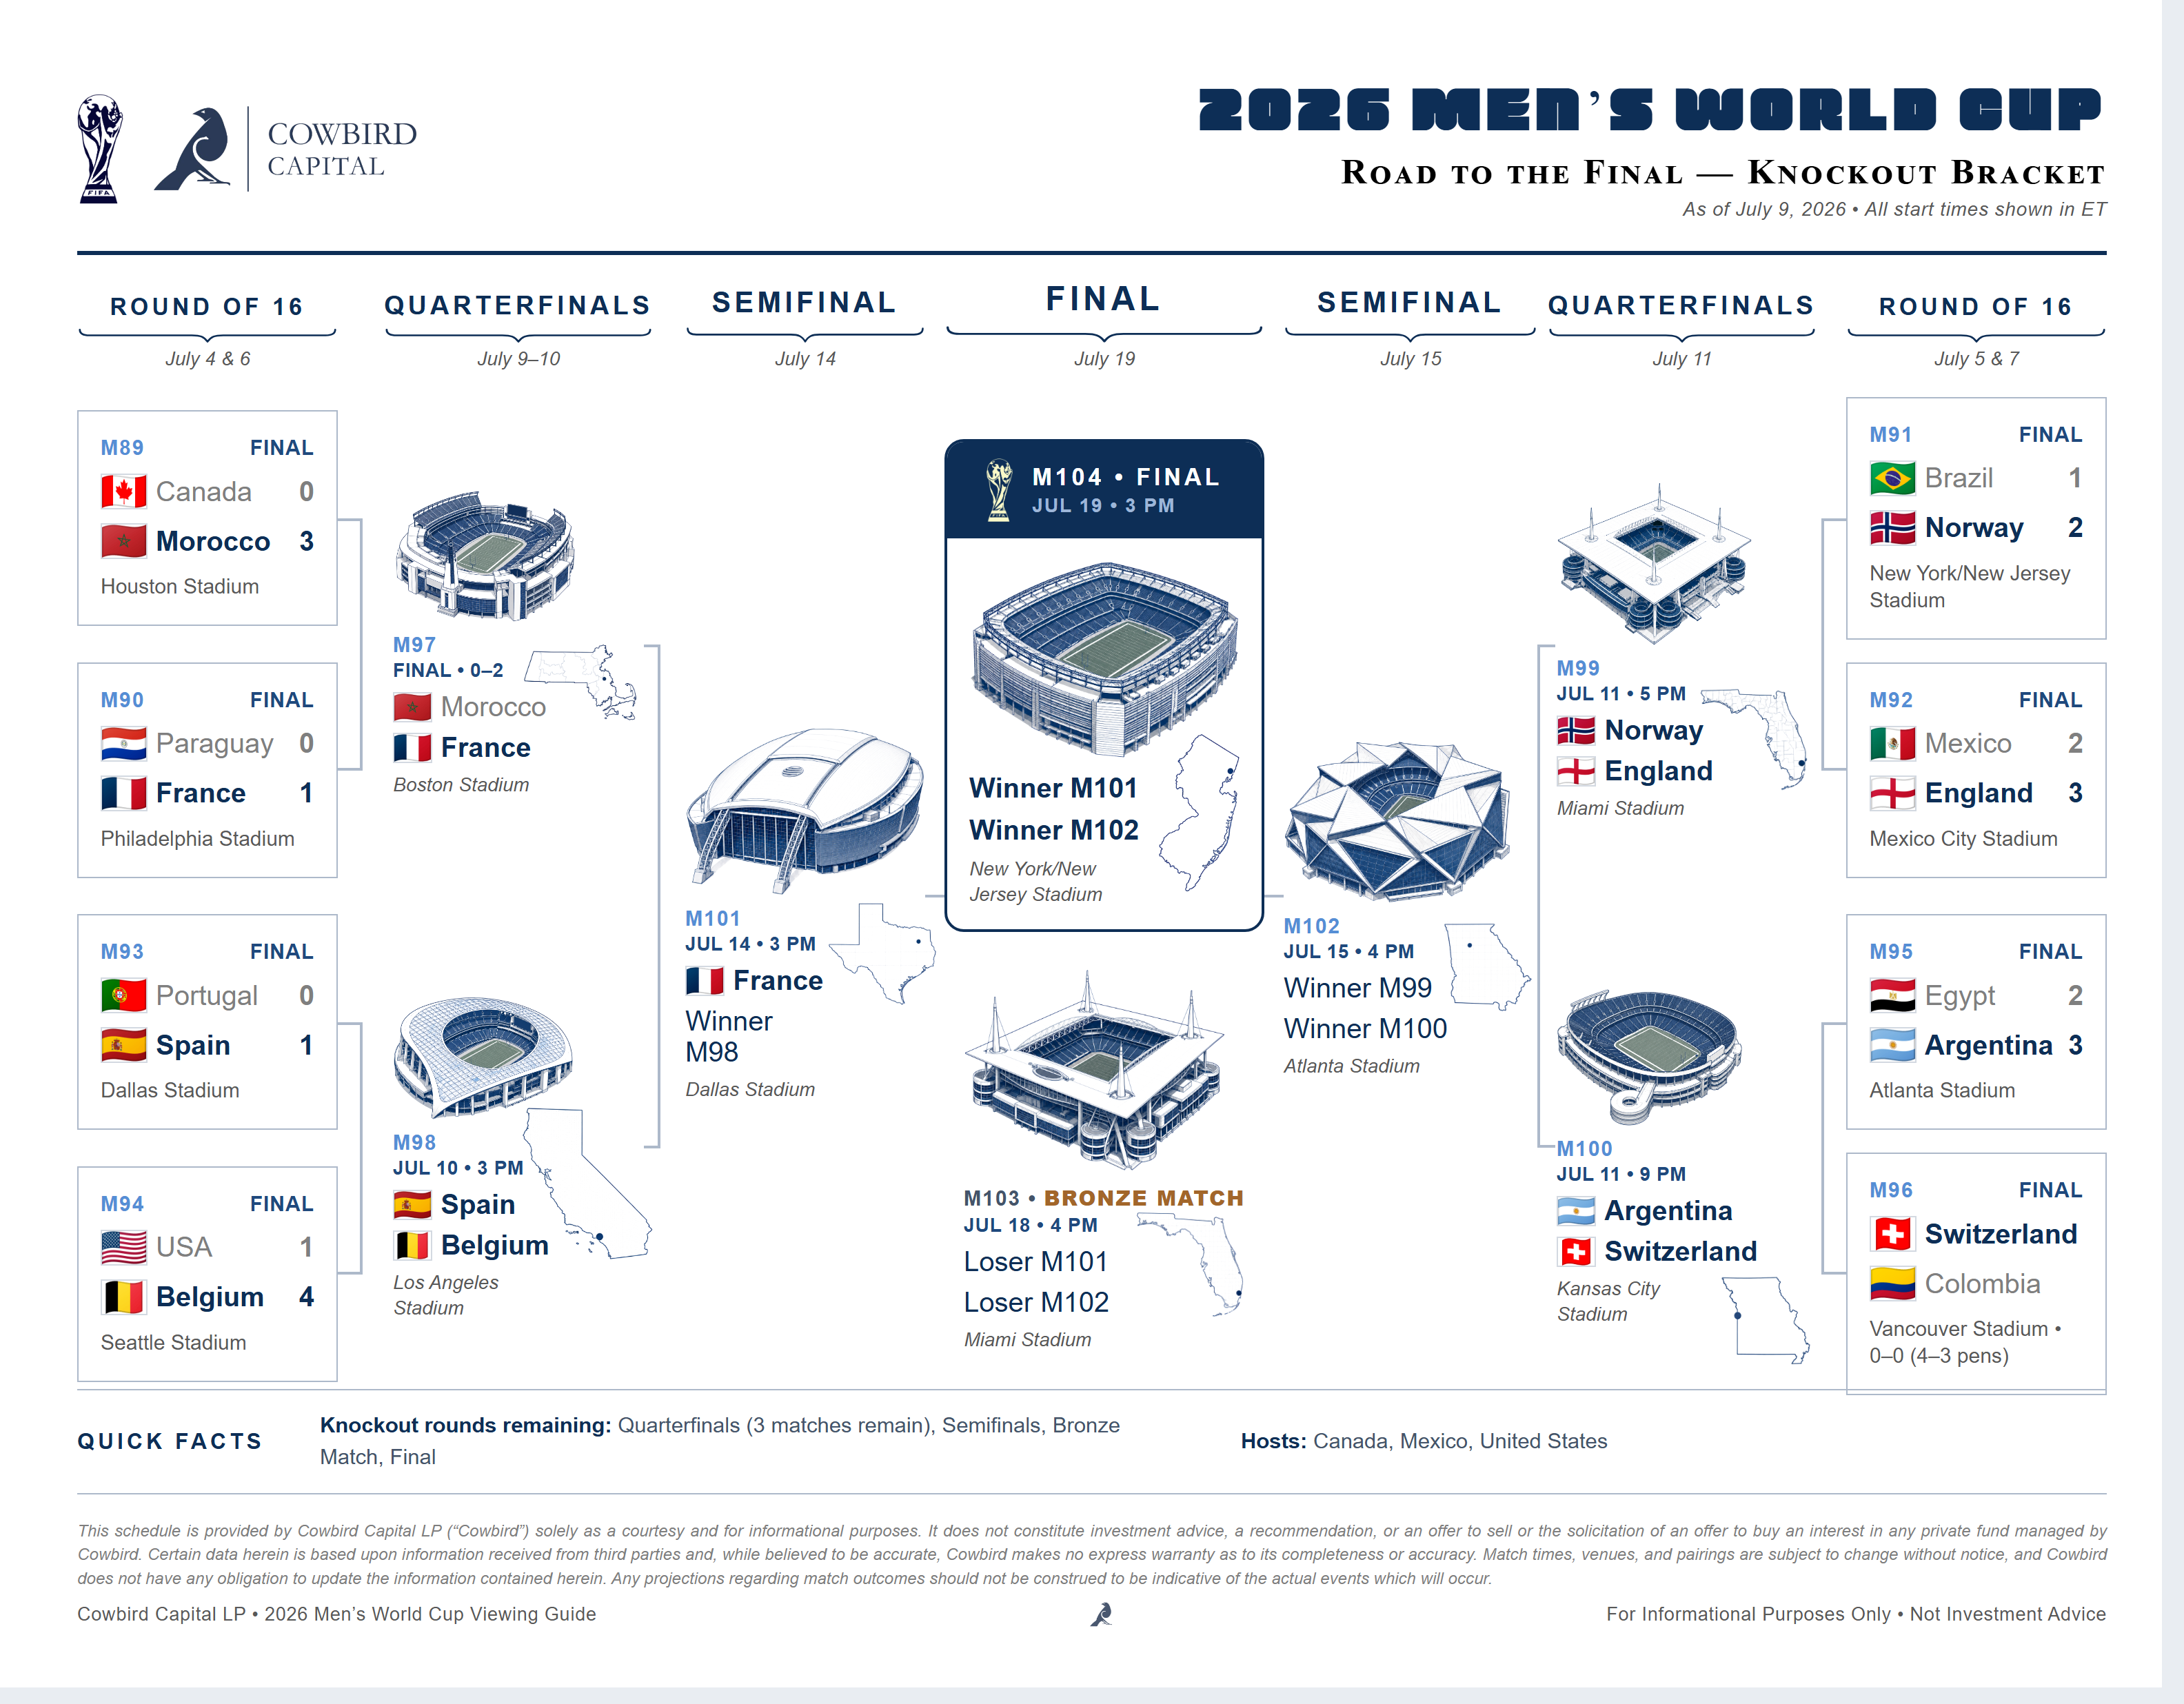
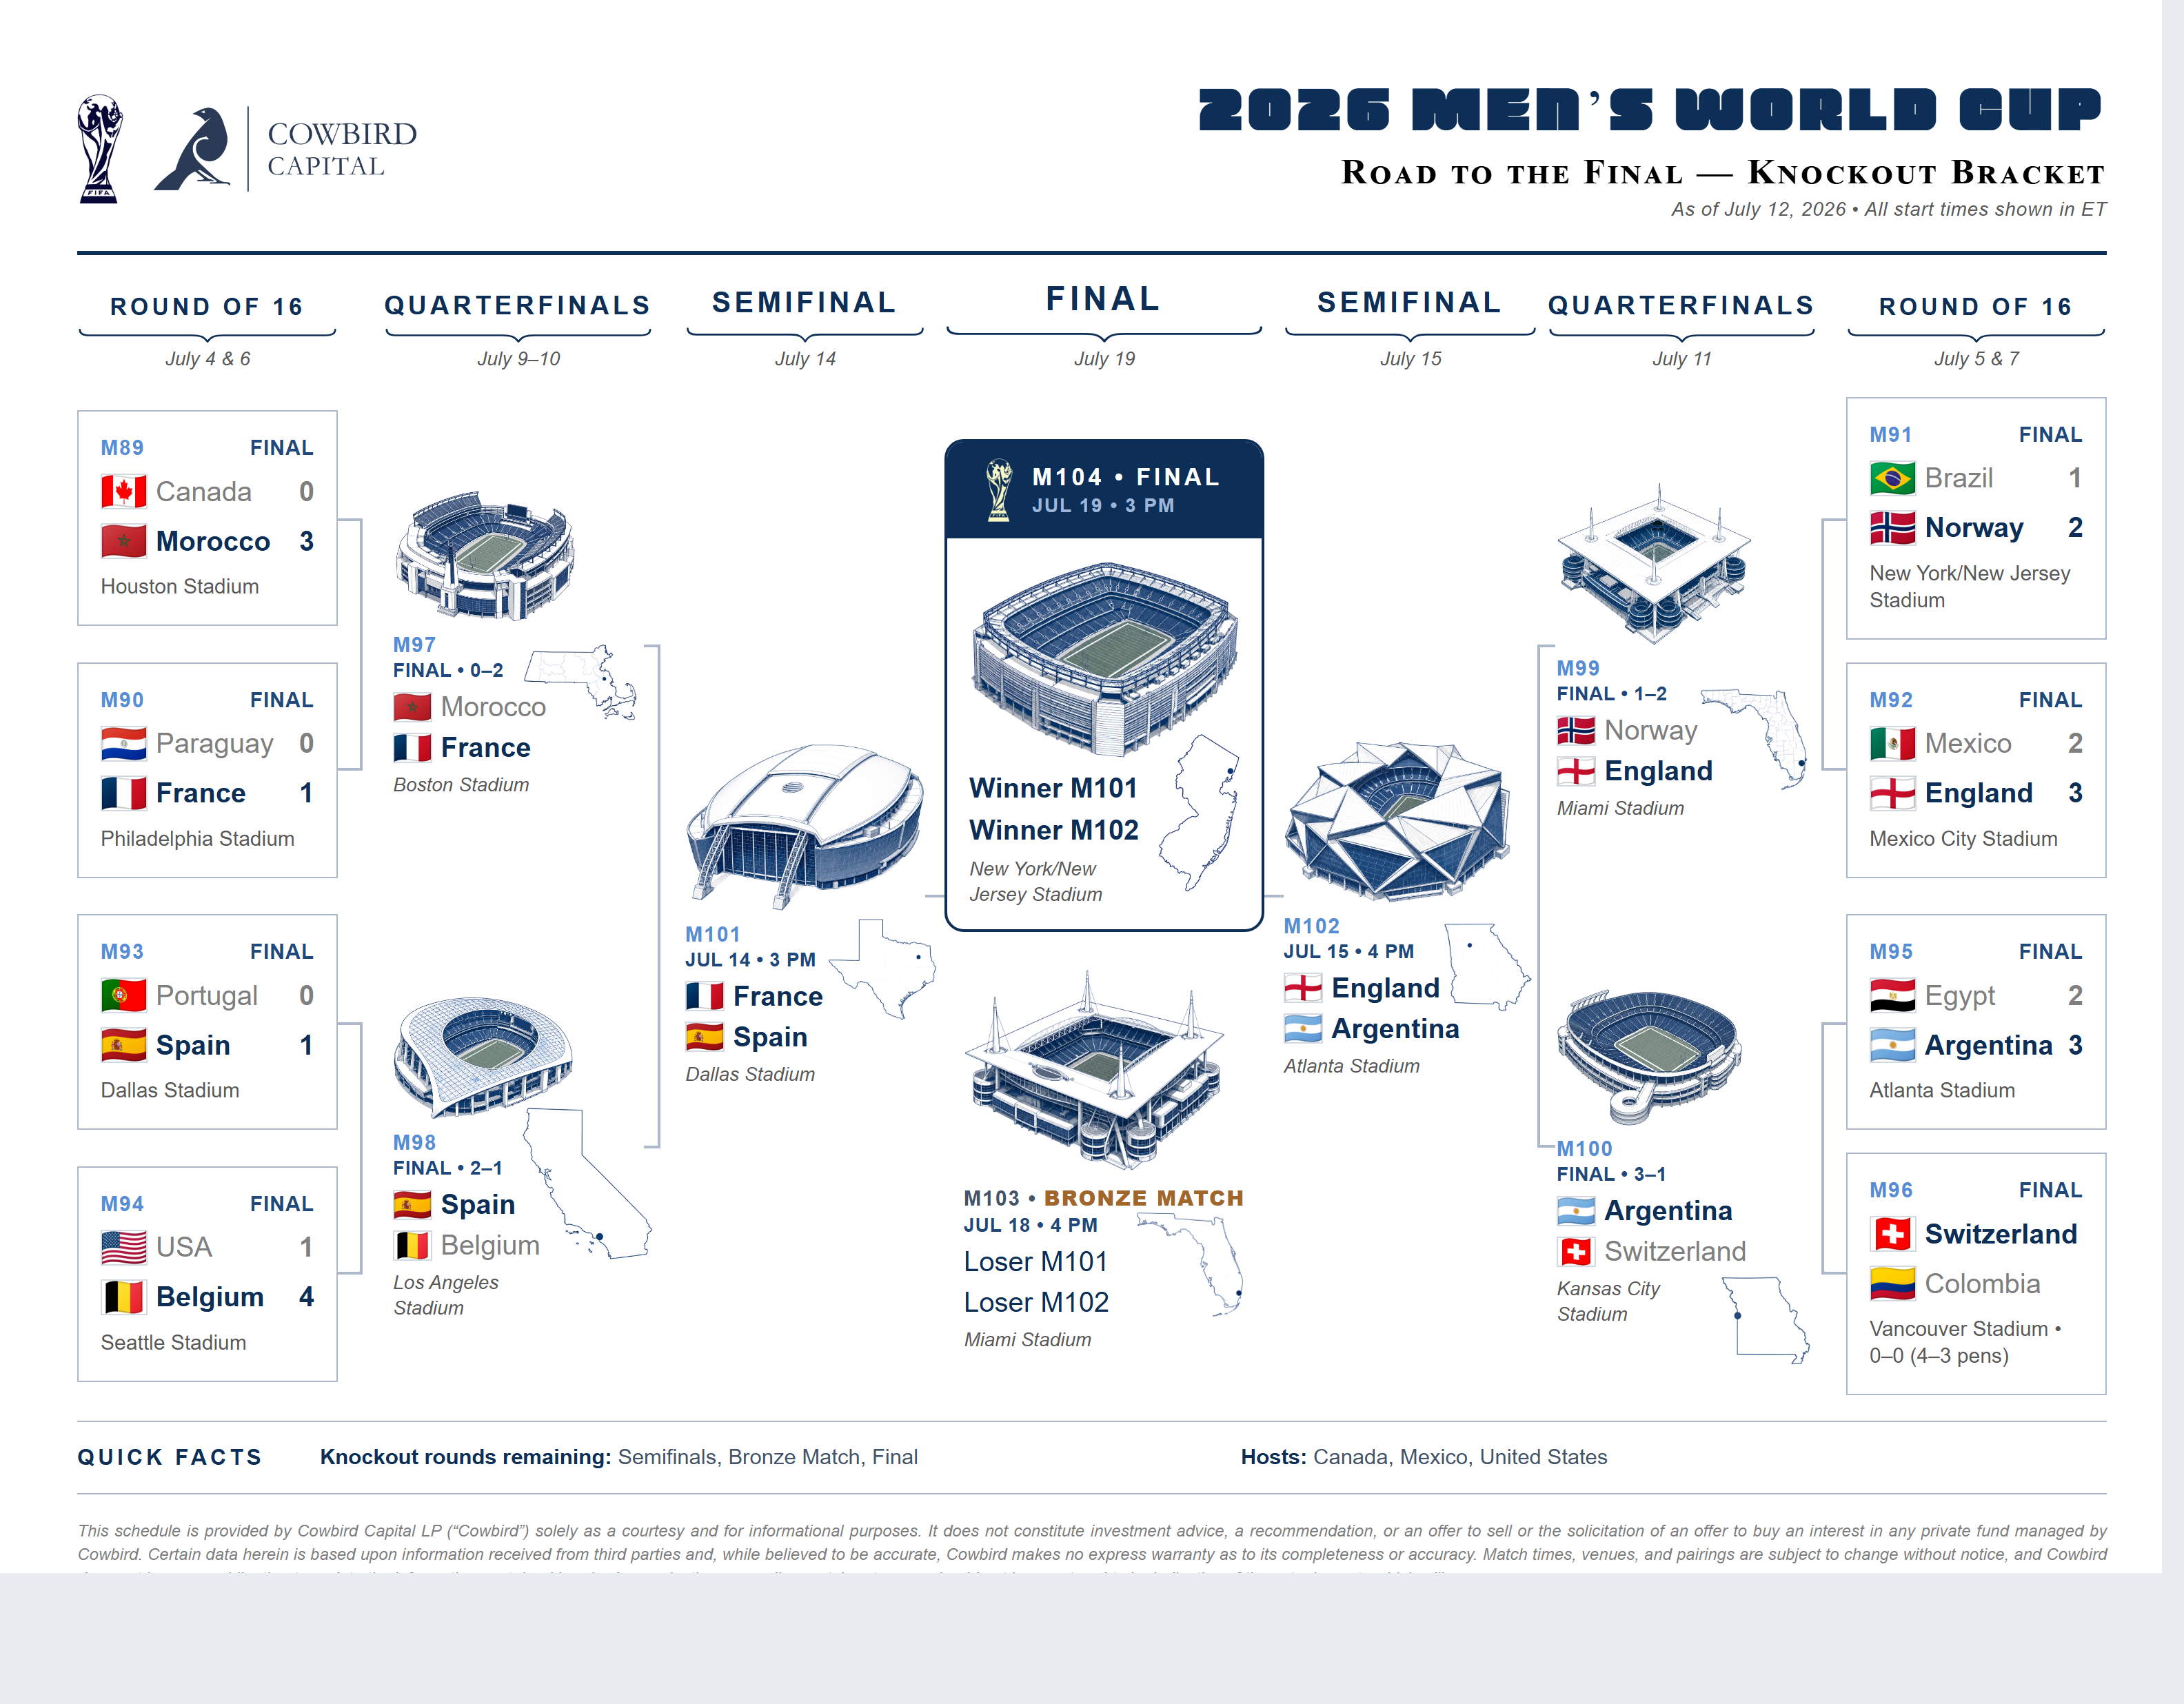
World Cup: quarterfinals complete — England & Argentina reach semis
July 11 quarterfinals (both after extra time):
- M99 England 2–1 Norway
- M100 Argentina 3–1 Switzerland

Also fills the July 9–10 QFs the live bracket was still missing:
- M97 France 2–0 Morocco
- M98 Spain 2–1 Belgium

Semifinals set: France vs Spain (Jul 14), England vs Argentina (Jul 15).
Regenerated SVG via tools/world_cup_bracket.py; re-rendered PNG (3168×2472)
and PDF (letter landscape) from the kit HTML. Updated alt text, figcaption,
and cache-bust (?v=712).

diff --git a/index.html b/index.html
@@ -1003,13 +1003,14 @@
       </p>
       <figure>
         <div class="bracket-scroll">
-          <img src="assets/world-cup-bracket.svg" alt="2026 Men's World Cup knockout bracket, as of July 8, 2026" loading="lazy">
+          <img src="assets/world-cup-bracket.svg?v=712" alt="2026 Men's World Cup knockout bracket, as of July 12, 2026" loading="lazy">
         </div>
-        <figcaption>Road to the Final — knockout bracket, as of July 8, 2026.
-        The Round of 16 is complete: Switzerland edged Colombia on penalties to
-        book a quarterfinal with Argentina. Quarterfinals run July 9–11, then the
-        semis, the bronze match, and the July 19 final at New York/New Jersey
-        Stadium. Winners shown in gold.</figcaption>
+        <figcaption>Road to the Final — knockout bracket, as of July 12, 2026.
+        The quarterfinals are complete: England beat Norway and Argentina beat
+        Switzerland — both after extra time — to set up an England–Argentina
+        semifinal, while France meets Spain in the other. The semis are July
+        14–15, then the bronze match, and the July 19 final at New York/New
+        Jersey Stadium. Winners shown in gold.</figcaption>
       </figure>
     </div>
   </section>